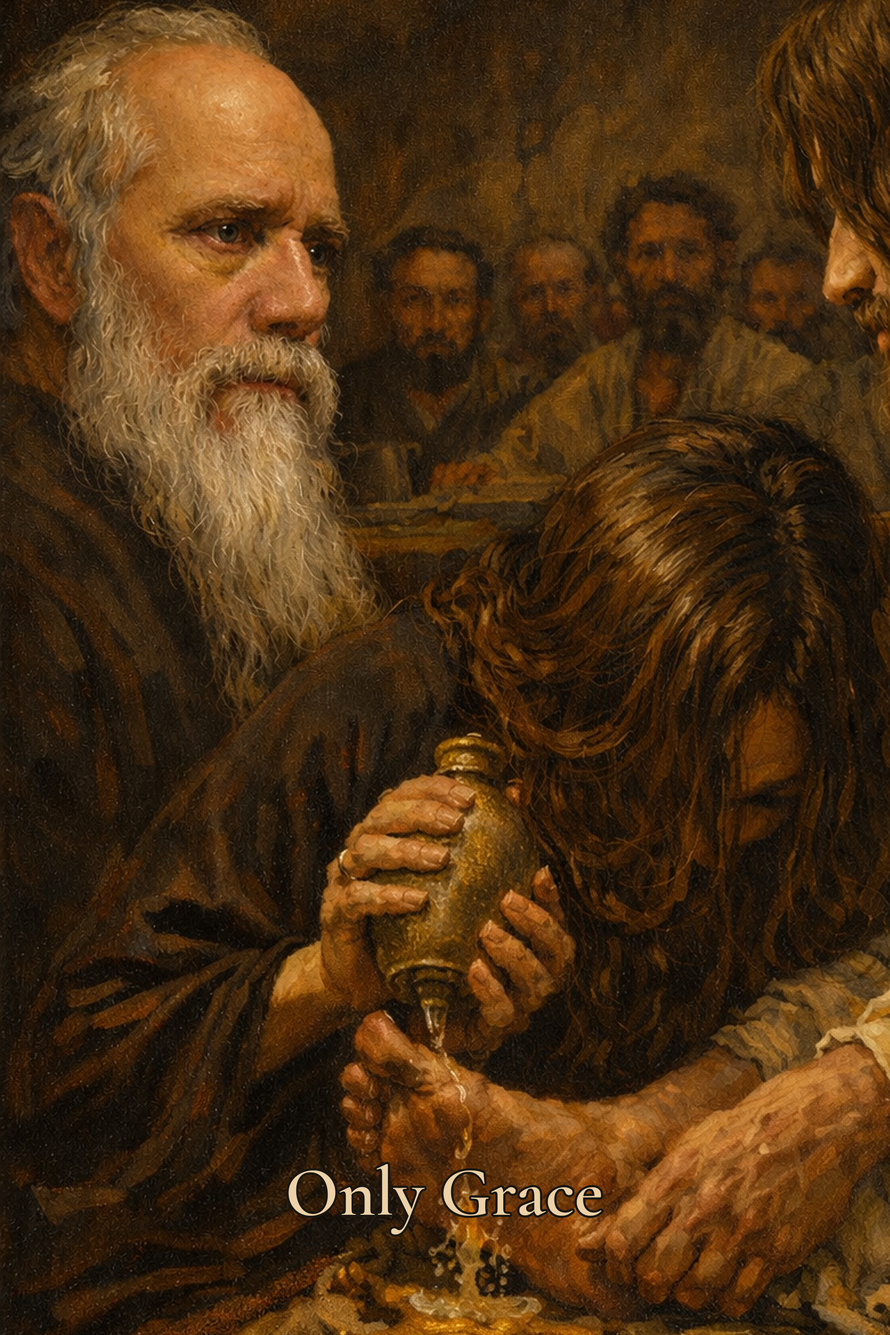
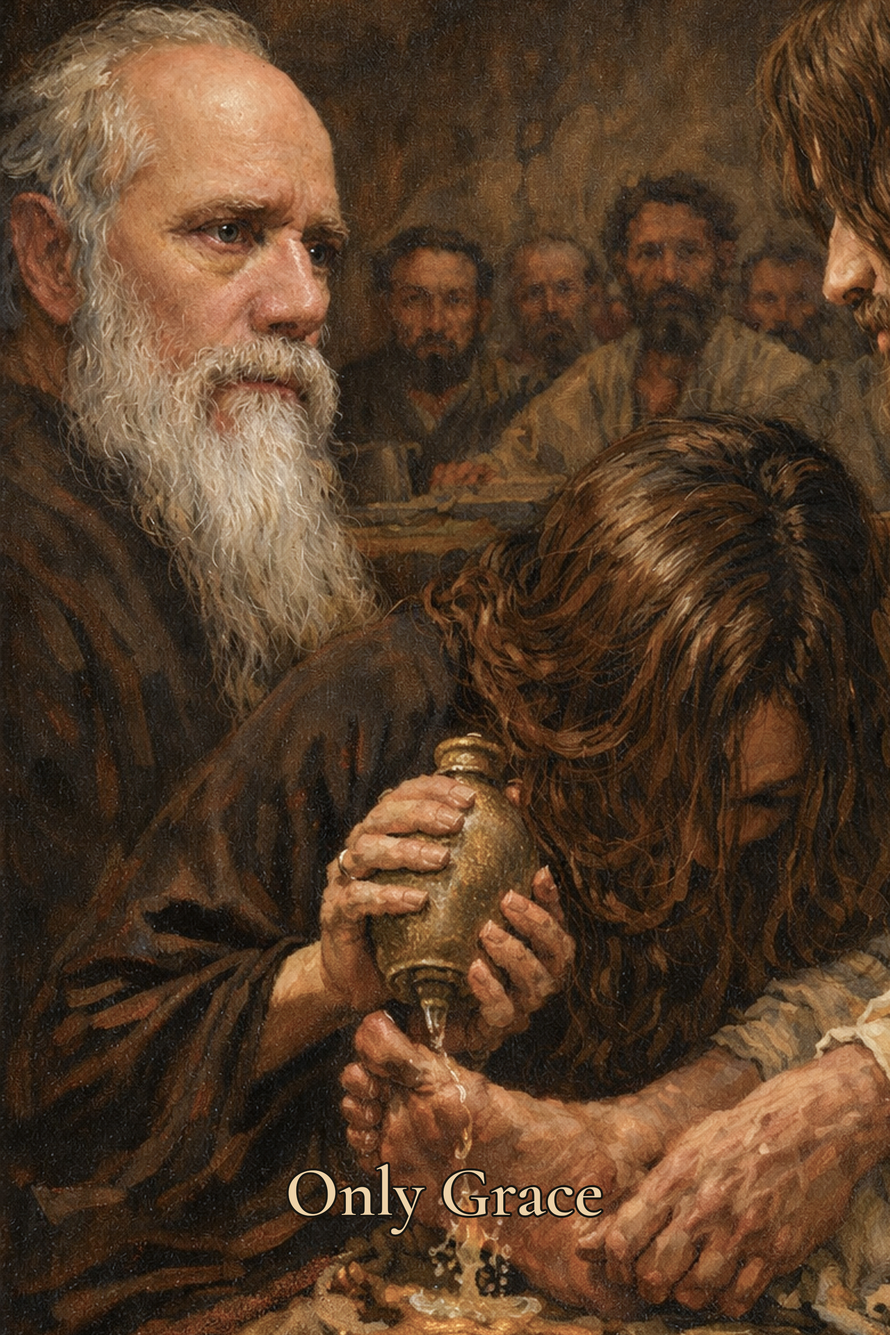
updated cards

diff --git a/style.css b/style.css
@@ -160,9 +160,7 @@ section h2 {
   font-weight: 700;
 }
 
-/* ===========================
-MUSIC CAROUSEL
-=========================== */
+/* ========================= MUSIC CAROUSEL ========================= */
 .music-scroll {
   display: flex;
   gap: 40px;
@@ -201,7 +199,7 @@ MUSIC CAROUSEL
 }
 
 .release-card.flipped .album-inner {
-  transform: rotateY(180deg) !important;
+  transform: rotateY(180deg);
 }
 
 .album-front,
@@ -222,50 +220,61 @@ MUSIC CAROUSEL
   background: rgba(255, 255, 255, 0.05);
   backdrop-filter: blur(12px) saturate(150%);
   -webkit-backdrop-filter: blur(12px) saturate(150%);
-  border: 2px solid rgba(255,255,255,0.2);
+  border: 2px solid rgba(255, 255, 255, 0.2);
 }
 
 .album-back {
+  position: relative;
   background: rgba(255, 255, 255, 0.05);
   backdrop-filter: blur(12px) saturate(150%);
   -webkit-backdrop-filter: blur(12px) saturate(150%);
-  border: 2px solid rgba(255,255,255,0.2);
+  border: 2px solid rgba(255, 255, 255, 0.2);
   color: var(--secondary-color);
-  display: flex;
-  flex-direction: column;
-  justify-content: center;
-  align-items: center;
-  text-align: center;
-  padding: 15px;
   transform: rotateY(180deg);
+  overflow: hidden;
+  pointer-events: auto;
 }
 
-.album-front img {
+/* full background image */
+.album-back img {
+  position: absolute;
+  inset: 0;
   width: 100%;
   height: 100%;
   object-fit: cover;
-
-  image-rendering: -webkit-optimize-contrast;
-  image-rendering: crisp-edges;
   backface-visibility: hidden;
-  transform: translateZ(0);
+  z-index: 1;
 }
 
+/* overlay for readability */
+.album-back::after {
+  content: "";
+  position: absolute;
+  inset: 0;
+  background: rgba(0, 0, 0, 0.35);
+  pointer-events: none;
+  z-index: 2;
+}
+
+/* ========================= MUSIC BUTTONS ========================= */
 .album-back .music-links {
-  display: flex;
-  flex-wrap: wrap;
-  justify-content: center;
-  gap: 12px;
-  margin-top: 15px;
+  position: absolute;
+  top: 50%;
+  left: 50%;
+  transform: translate(-50%, -50%);
+  z-index: 5;
+
+  display: grid;
+  grid-template-columns: repeat(2, 1fr);
+  gap: 16px;
+  width: 150px; /* adjust to fit buttons */
 }
 
 .album-back .music-links a {
   display: flex;
+  justify-content: center;
   align-items: center;
-  gap: 6px;
   text-decoration: none;
-  color: var(--secondary-color);
-  font-weight: 500;
   transition: transform 0.2s ease, color 0.2s ease;
 }
 
@@ -275,60 +284,14 @@ MUSIC CAROUSEL
 }
 
 .album-back .music-links a:hover {
-  transform: scale(1.05);
+  transform: scale(1.1);
   color: var(--primary-color);
 }
 
-.release-card.showcase {
-  z-index: 10;
-  transform: translateZ(100px);
-  opacity: 1;
-}
-
-.release-card:not(.showcase) {
-  z-index: 1;
-  transform: translateZ(-80px);
-  opacity: 0.8;
-}
-
-/* ===========================
-CAROUSEL CONTROLS
-=========================== */
-.carousel-wrapper {
-  position: relative;
-  width: 100%;
-}
-
-.carousel-rail {
-  width: 100vw;
-  margin-left: calc(50% - 50vw);
-  margin-right: calc(50% - 50vw);
-}
-
-.carousel-row {
-  display: grid;
-  grid-template-columns: auto 1fr auto;
-  align-items: center;
-}
-
-/* ===========================
-CAROUSEL BUTTONS
-=========================== */
-.carousel-wrapper {
-  position: relative;
-  width: 100%;
-  margin-bottom: 10px;
-}
-
-.carousel-row {
-  display: flex; 
-  align-items: center;
-  position: relative;
-}
-
+/* ========================= CAROUSEL BUTTONS ========================= */
 .carousel-btn {
   position: absolute;
-  top: 50%; /* vertical center */
+  top: 50%;
   transform: translateY(-50%);
   background: rgba(20, 15, 13, 0.7);
   backdrop-filter: blur(8px);
@@ -340,24 +303,19 @@ CAROUSEL BUTTONS
   border-radius: 50%;
   cursor: pointer;
   transition: transform 0.2s ease, background 0.3s ease;
-  z-index: 20; /* above cards */
+  z-index: 20;
 }
 
-.carousel-btn.left {
-  left: 20px; /* distance from left edge */
-}
+.carousel-btn.left { left: 20px; }
+.carousel-btn.right { right: 20px; }
 
-.carousel-btn.right {
-  right: 20px; /* distance from right edge */
-}
+.carousel-btn:hover { transform: translateY(-50%) scale(1.08); }
+.carousel-btn:active { transform: translateY(-50%) scale(0.95); }
 
-.carousel-btn:hover {
-  background: rgba(255, 211, 107, 0.25);
-  transform: translateY(-50%) scale(1.08);
-}
-
-.carousel-btn:active {
-  transform: translateY(-50%) scale(0.95);
+/* ========================= RESPONSIVE ========================= */
+@media (max-width: 768px) {
+  .release-card { width: 180px; height: 250px; }
+  .album-back .music-links { width: 120px; gap: 12px; }
 }
 /* ===========================
 DEVOTIONS

diff --git a/index.html b/index.html
@@ -53,9 +53,10 @@
       <div class="release-card" data-devotion-id="burden-and-mercy">
         <div class="album-inner">
           <div class="album-front">
-            <img src="BurdenandMercy.jpg" crossOrigin="anonymous" alt="Burden and Mercy">
+            <img src="BurdenandMercy.jpg" alt="Burden and Mercy">
           </div>
           <div class="album-back">
+             <img src="BandM_BG.jpg" alt="Burden and Mercy">
             <h3>Burden and Mercy</h3>
             <div class="music-links">
               <a href="https://open.spotify.com/track/7FxeBmNTuD9w4sCxY0QzdB?si=54451cde21ad43d5" target="_blank">
@@ -79,9 +80,10 @@
       <div class="release-card" data-devotion-id="I Was There">
         <div class="album-inner">
           <div class="album-front">
-            <img src="IWasThere.jpg" crossOrigin="anonymous" alt="I Was There Cover">
+            <img src="IWasThere.jpg" alt="I Was There Cover">
           </div>
           <div class="album-back">
+            <img src="IwasThere_BG.jpg" alt="I Was There Cover">
             <h3>I Was There</h3>
             <div class="music-links">
               <a href="https://open.spotify.com/track/2AjxLKYCfvxr4NrOJ7ys9X" target="_blank">
@@ -105,9 +107,10 @@
       <div class="release-card" data-devotion-id="scept">
         <div class="album-inner">
           <div class="album-front">
-            <img src="TheScepter.jpg" crossOrigin="anonymous" alt="The Scepter and the Cross">
+            <img src="TheScepter.jpg" alt="The Scepter and the Cross">
           </div>
           <div class="album-back">
+            <img src="TheScepter_BG.jpg" alt="The Scepter and the Cross">
             <h3>The Scepter and the Cross</h3>
             <div class="music-links">
               <a href="https://open.spotify.com/track/4bbgKZ6q0bQBtxT4BPjxXm" target="_blank">
@@ -131,7 +134,7 @@
       <div class="release-card" data-devotion-id="sent">
         <div class="album-inner">
           <div class="album-front">
-            <img src="Sent.PNG" crossOrigin="anonymous"alt="Sent Not To Flee Cover">
+            <img src="Sent.PNG" alt="Sent Not To Flee Cover">
           </div>
           <div class="album-back">
             <h3>Sent Not To Flee</h3>
@@ -157,9 +160,10 @@
       <div class="release-card" data-devotion-id="only-grace">
         <div class="album-inner">
           <div class="album-front">
-            <img src="OnlyGrace.jpg" crossOrigin="anonymous" alt="Only Grace Cover">
+            <img src="OnlyGrace.jpg"  alt="Only Grace Cover">
           </div>
           <div class="album-back">
+             <img src="OnlyGrace_BG.jpg"  alt="Only Grace Cover">
             <h3>Only Grace</h3>
             <div class="music-links">
               <a href="https://open.spotify.com/track/5NMwIdWsqXE1uCryum7bqD" target="_blank">
